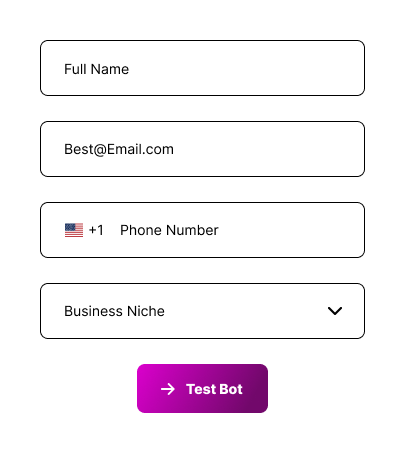
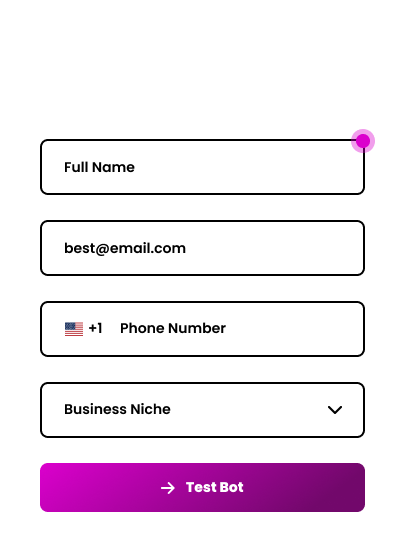
Implement auto-versioning for CSS and JS cache busting
- Add filemtime() based versioning for CSS and JS files
- Automatically bust browser cache when files are modified
- Update form wrapper max-width to 405px
- Adjust form padding with extended top padding (139px)
- Fix CSS syntax (remove extra semicolon)
- Update form example screenshot

This eliminates the need to manually update version numbers
whenever CSS or JS files are changed. The browser cache will
automatically refresh when files are modified.

diff --git a/assets/css/uic-styles.css b/assets/css/uic-styles.css
@@ -13,7 +13,7 @@
 /* Elementor compatibility - increase specificity */
 .elementor-shortcode .uic-form-wrapper,
 .uic-form-wrapper {
-    max-width: 400px !important;
+    max-width: 405px !important;
     margin: 40px auto !important;
     padding: 0 !important;
     background: transparent !important;
@@ -24,9 +24,9 @@
 .elementor-shortcode .uic-form,
 .uic-form {
     margin: 0 !important;
-    padding: 40px !important;
+    padding: 139px 40px 40px 40px !important;
     background-color: #ffffff;
-    border-radius: 20px;;
+    border-radius: 20px;
 }
 
 .elementor-shortcode .uic-form-field,

diff --git a/user-info-collector.php b/user-info-collector.php
@@ -119,12 +119,13 @@ class User_Info_Collector {
             '23.0.12'
         );
 
-        // Enqueue plugin styles
+        // Enqueue plugin styles with auto-versioning based on file modification time
+        $css_file = UIC_PLUGIN_DIR . 'assets/css/uic-styles.css';
         wp_enqueue_style(
             'uic-styles',
             UIC_PLUGIN_URL . 'assets/css/uic-styles.css',
             array('intl-tel-input'),
-            UIC_VERSION
+            file_exists($css_file) ? filemtime($css_file) : UIC_VERSION
         );
 
         // Enqueue intl-tel-input JS from CDN
@@ -136,12 +137,13 @@ class User_Info_Collector {
             true
         );
 
-        // Enqueue custom initialization script
+        // Enqueue custom initialization script with auto-versioning
+        $js_file = UIC_PLUGIN_DIR . 'assets/js/uic-phone-input.js';
         wp_enqueue_script(
             'uic-phone-input',
             UIC_PLUGIN_URL . 'assets/js/uic-phone-input.js',
             array('intl-tel-input'),
-            UIC_VERSION,
+            file_exists($js_file) ? filemtime($js_file) : UIC_VERSION,
             true
         );
     }
